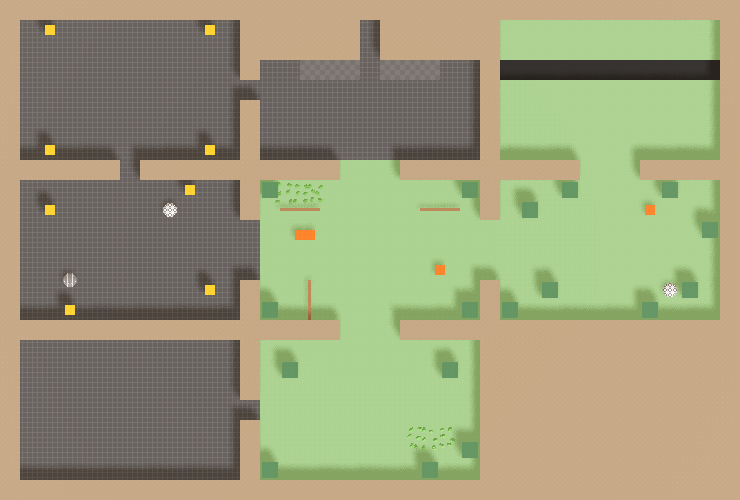
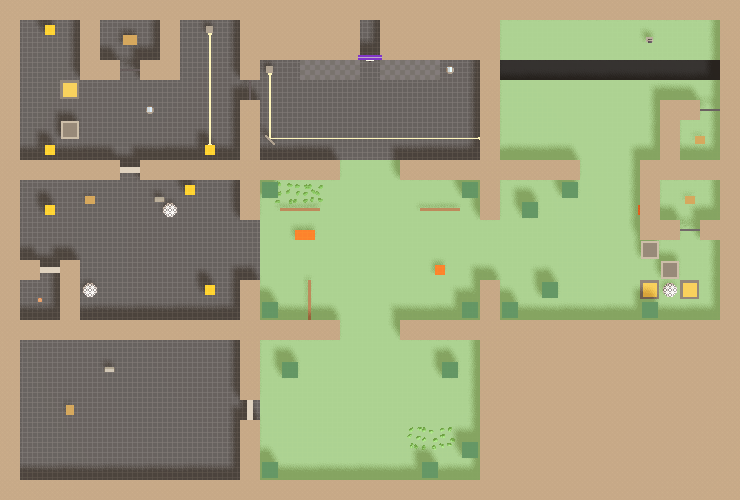
Hide the potion, the chainmail and the big quiver in the overworld's secrets (task 7.7)

diff --git a/docs/tareas.md b/docs/tareas.md
@@ -1285,7 +1285,7 @@ Hecho 2026-10-08: kit `data/kits/gray_kit.tres` (lo arma `src/tools/build_gray_k
 
 **Bloqueada por:** 6.2 Puertas; 6.3 Llaves de mazmorra y HUD; 6.4 Bloques por grilla; 6.5 Interruptores y cableado
 
-## M7 — Overworld  (5/8)
+## M7 — Overworld  (6/8)
 
 Zona chica con el gating bombas → escudo espejo → sello del templo, y los secretos.
 
@@ -1397,7 +1397,7 @@ Hecho 2026-10-08: `Portal` + `SaveManager.travel_to()` (pausa, fundido, `load_th
 
 **Bloqueada por:** 5.6 Escudo espejo y haz de luz; 7.4 Cueva de las bombas
 
-### 7.6 Sello del templo · En curso
+### 7.6 Sello del templo · Hecho
 
 - [x] Puzzle del sello
   Fuente de luz + espejos fijos + el escudo: hay que llevar el haz hasta el sello.
@@ -1416,18 +1416,20 @@ Hecho 2026-10-08: `Portal` + `SaveManager.travel_to()` (pausa, fundido, `load_th
 
 **Bloqueada por:** 7.3 Cambio de escena overworld ↔ mazmorra; 7.5 Santuario del escudo espejo
 
-### 7.7 Secretos del overworld · Pendiente
+### 7.7 Secretos del overworld · En curso
 
-- [ ] Botella con poción tras un muro agrietado
+- [x] Botella con poción tras un muro agrietado
   Opcional.
-- [ ] Cota reforzada en un puzzle de bloques
+- [x] Cota reforzada en un puzzle de bloques
   Cofre secreto; ejercita la pantalla Equipo.
-- [ ] Carcaj grande post-mazmorra
+- [x] Carcaj grande post-mazmorra
   Ojo-interruptor alto o lejano que solo se alcanza con el arco; suma `_capacity_bonus` de flechas.
 
 **Prueba:** Con `full_inventory`, encontrar los tres secretos; con `start`, el carcaj no se puede conseguir.
 
 **Notas:** Recortables en este orden: carcaj, cota ([[gdd#roadmap]]).
+
+Hecho 2026-10-08: gruta (muro + poción + tablilla con pista), arboleda (dos bloques → reja → cota), risco (ojo con flecha → nicho → carcaj +20). Test `tests/test_secrets.gd` (los tres con todo; sin arco el ojo no despierta).
 
 **Referencias:** `gdd.md#overworld`, `gdd.md#items-mvp`
 

diff --git a/gdd.md b/gdd.md
@@ -198,6 +198,8 @@ Decidido el 2026-10-08. 8 zonas de ≈ 24 × 16 m (una "pantalla" con la cámara
 
 **Sello del templo (7.6):** la fuente del oeste apunta al sur, a un espejo fijo a 45° que manda el haz al este, cruzando la plaza. Atajándolo con el escudo espejo (bloqueo en diagonal, girando con el stick) va al norte, al cristal del sello (`ow_temple_seal_open`, con latch). `TempleSeal` (una `Gate` con el ojo) se hunde con sacudida fuerte, retumbo y polvo: el primer momento de *doom*. `TremorZone` cubre la entrada del templo: mientras el player está ahí, cada 6 s una sacudida suave con retumbo grave. Escenario `pre_temple`: todo lo del overworld hasta el escudo espejo, en la entrada del templo.
 
+**Secretos (7.7):** *Gruta oculta*: muro agrietado desde el claro del inicio (`ow_grotto_cracked_wall`), cofre con la poción en botella (`ow_grotto_chest`) y tablilla que adelanta el ojo del risco (cue `grotto_hint`). *Arboleda*: dos bloques en dos interruptores (`ow_grove_switch_a/b`) bajan la reja del recoveco noreste con la cota reforzada (`ow_grove_chest`; no se equipa sola, así se usa la pantalla Equipo). *Risco del ojo*: el `EyeSwitch` de la cornisa (`ow_cliff_eye`) solo reacciona a proyectiles y abre el nicho del carcaj grande (`ow_cliff_quiver_chest`, +20 flechas de capacidad).
+
 ## 8. Mazmorra — El Templo
 <!-- id: mazmorra -->
 
